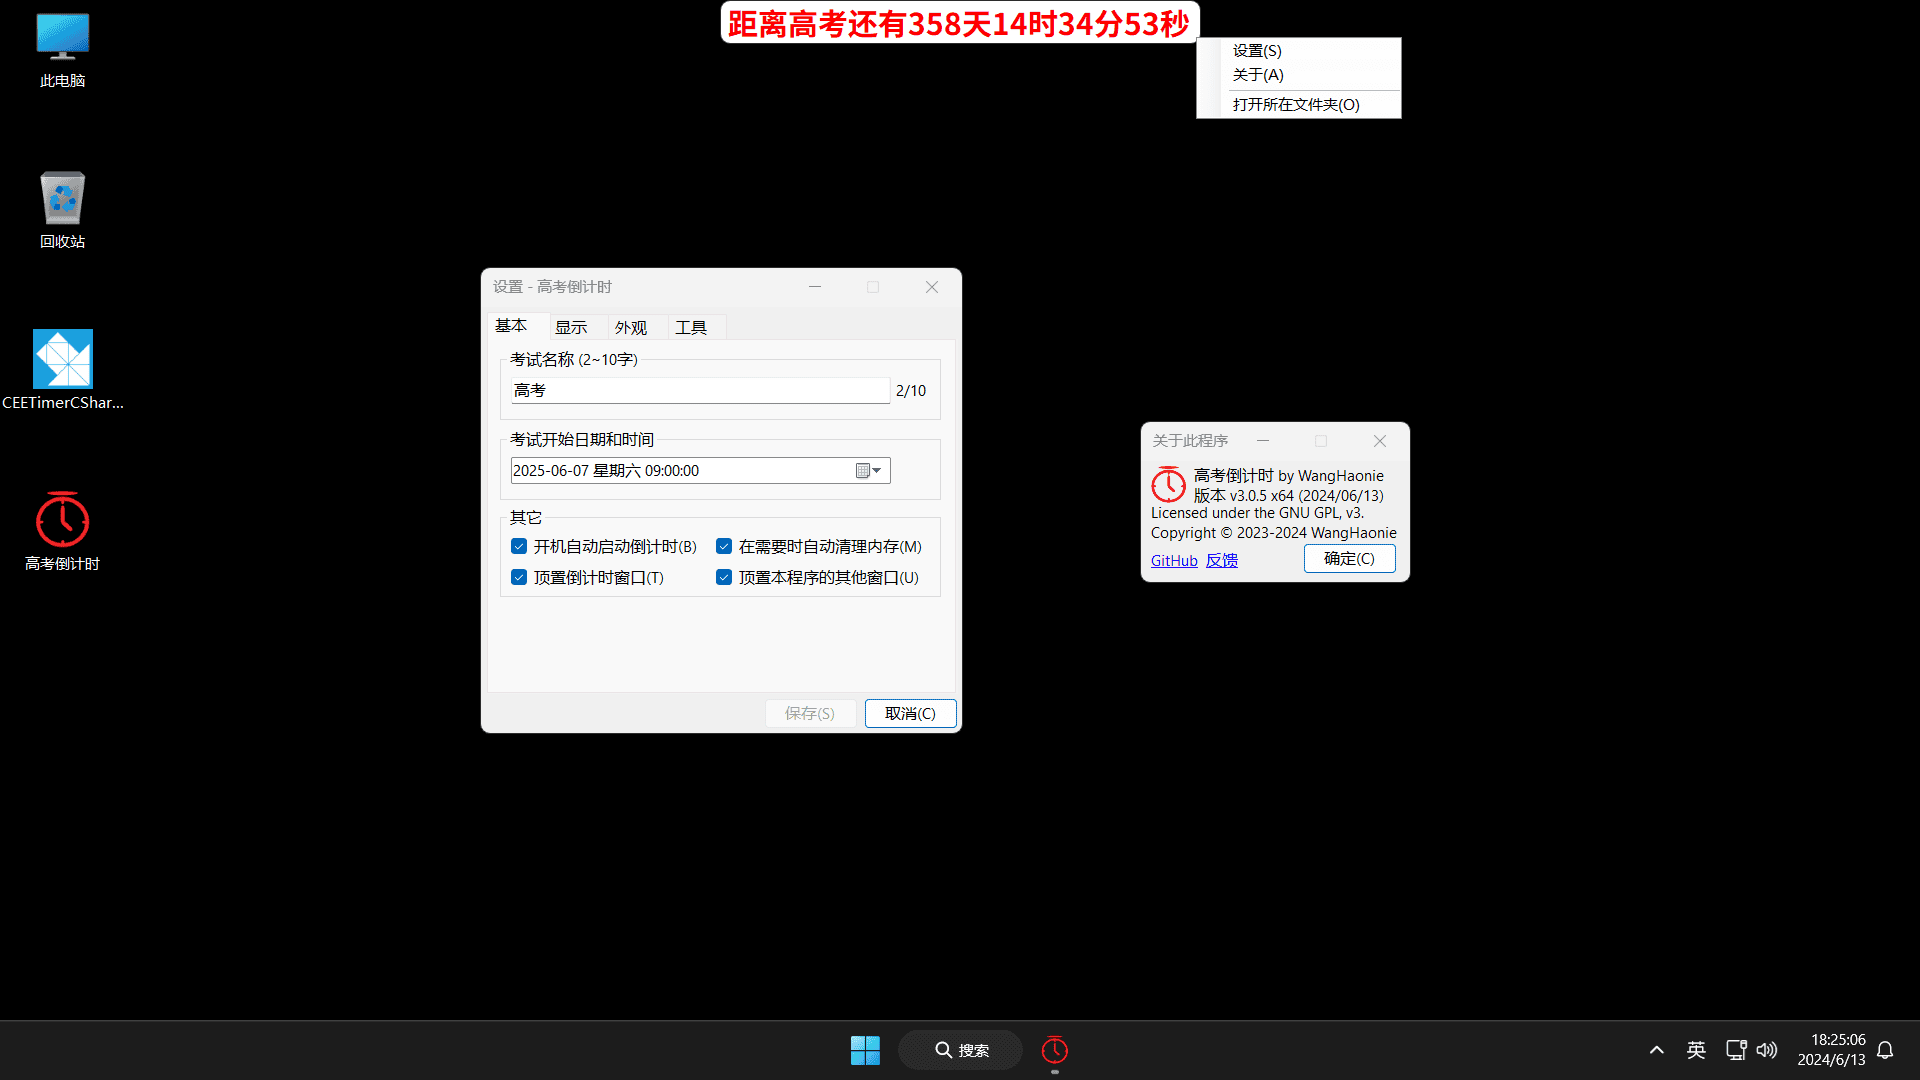
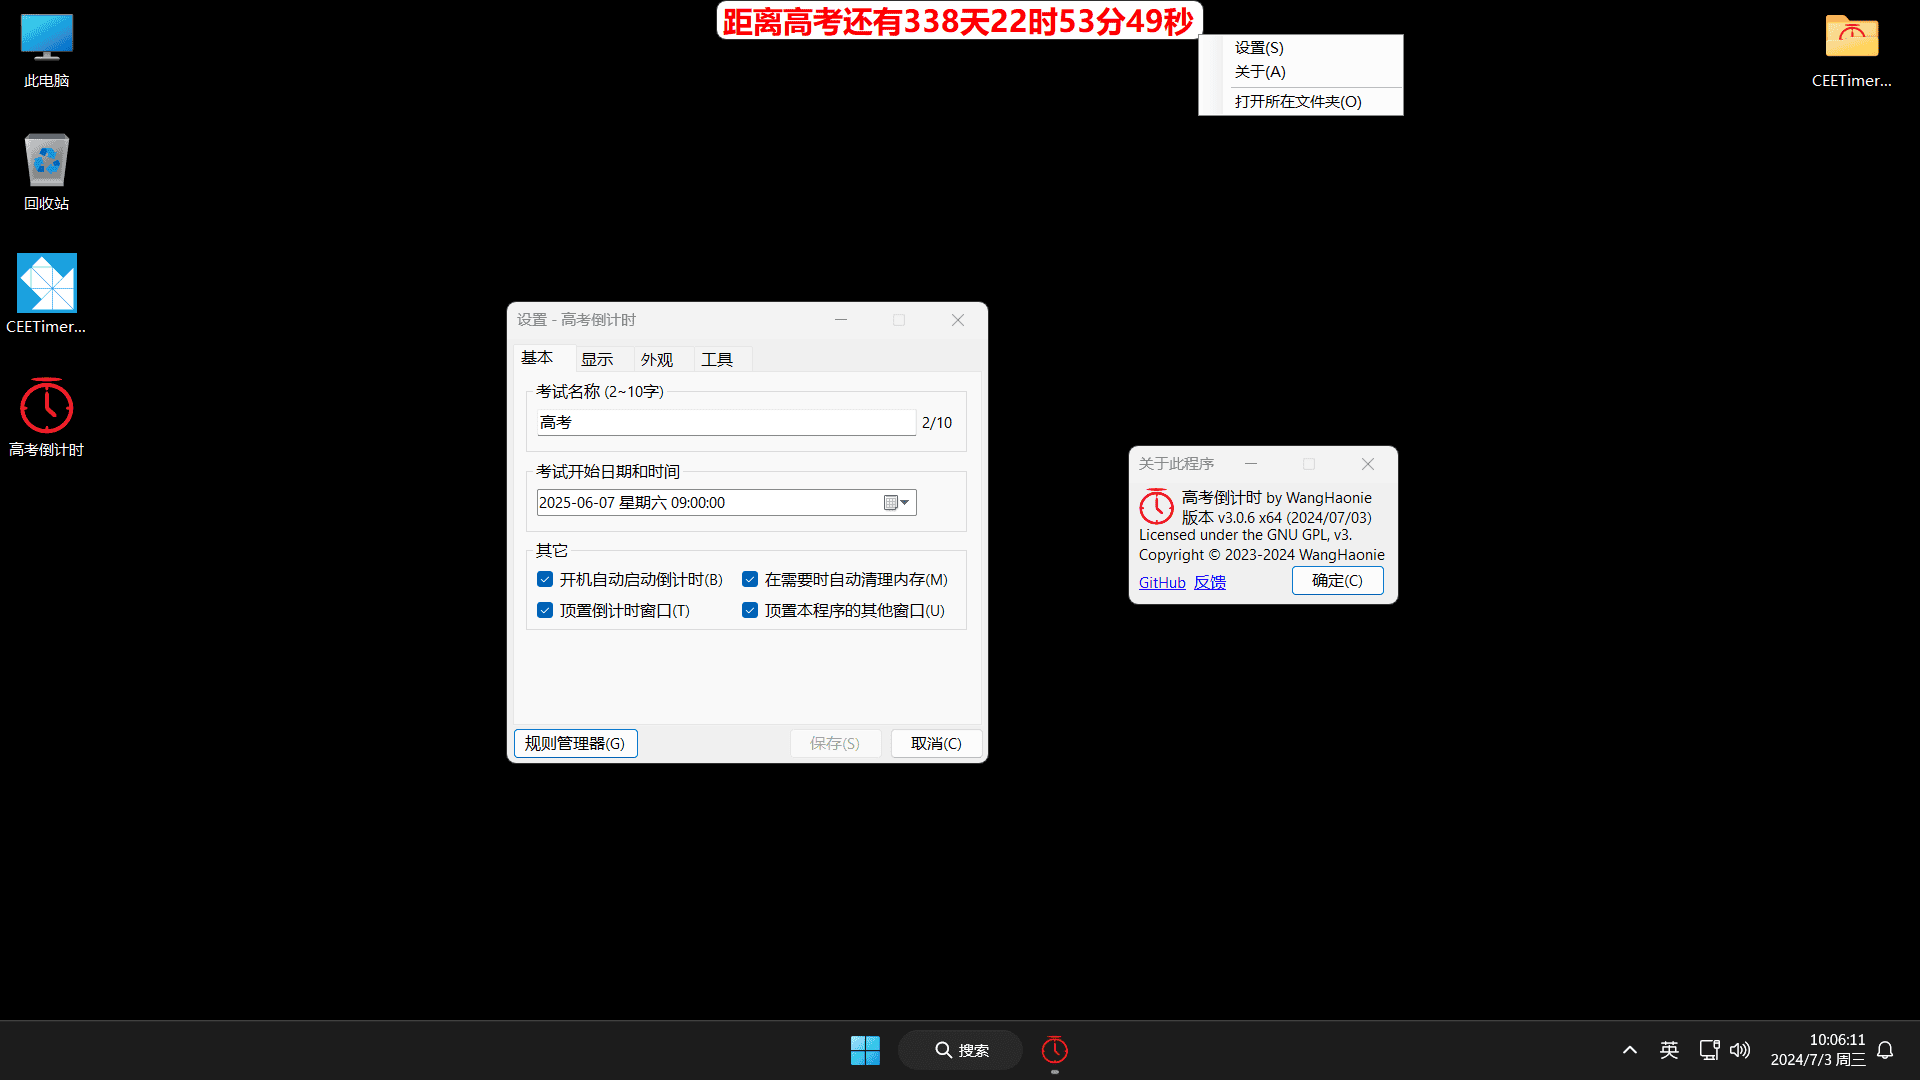
📢 发布了 v3.0.6

diff --git a/CEETimerCSharpWinForms/Modules/LaunchManager.cs b/CEETimerCSharpWinForms/Modules/LaunchManager.cs
@@ -15,8 +15,8 @@ namespace CEETimerCSharpWinForms.Modules
 
         public const string AppName = "高考倒计时 by WangHaonie";
         public const string AppNameEn = "CEETimerCSharpWinForms";
-        public const string AppVersion = "3.0.5";
-        public const string AppBuildDate = "2024/06/13";
+        public const string AppVersion = "3.0.6";
+        public const string AppBuildDate = "2024/07/03";
         public const string CopyrightInfo = "Copyright © 2023-2024 WangHaonie";
         public const string OriginalFileName = $"{AppNameEn}.exe";
         public const string InfoMsg = "提示 - 高考倒计时";
